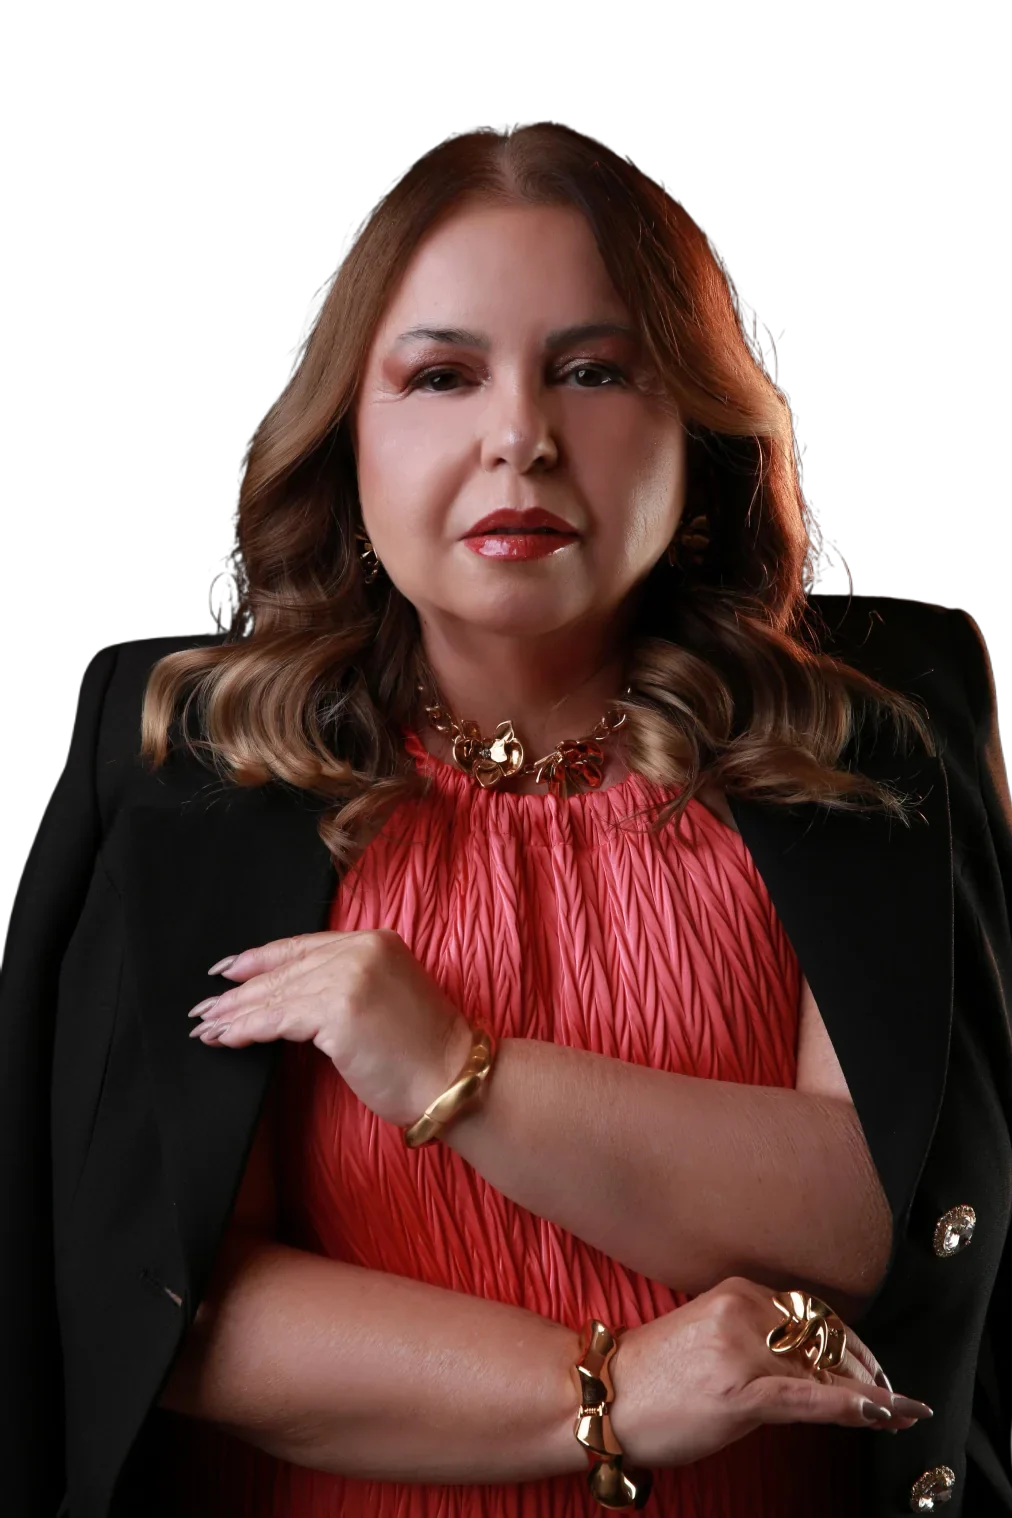
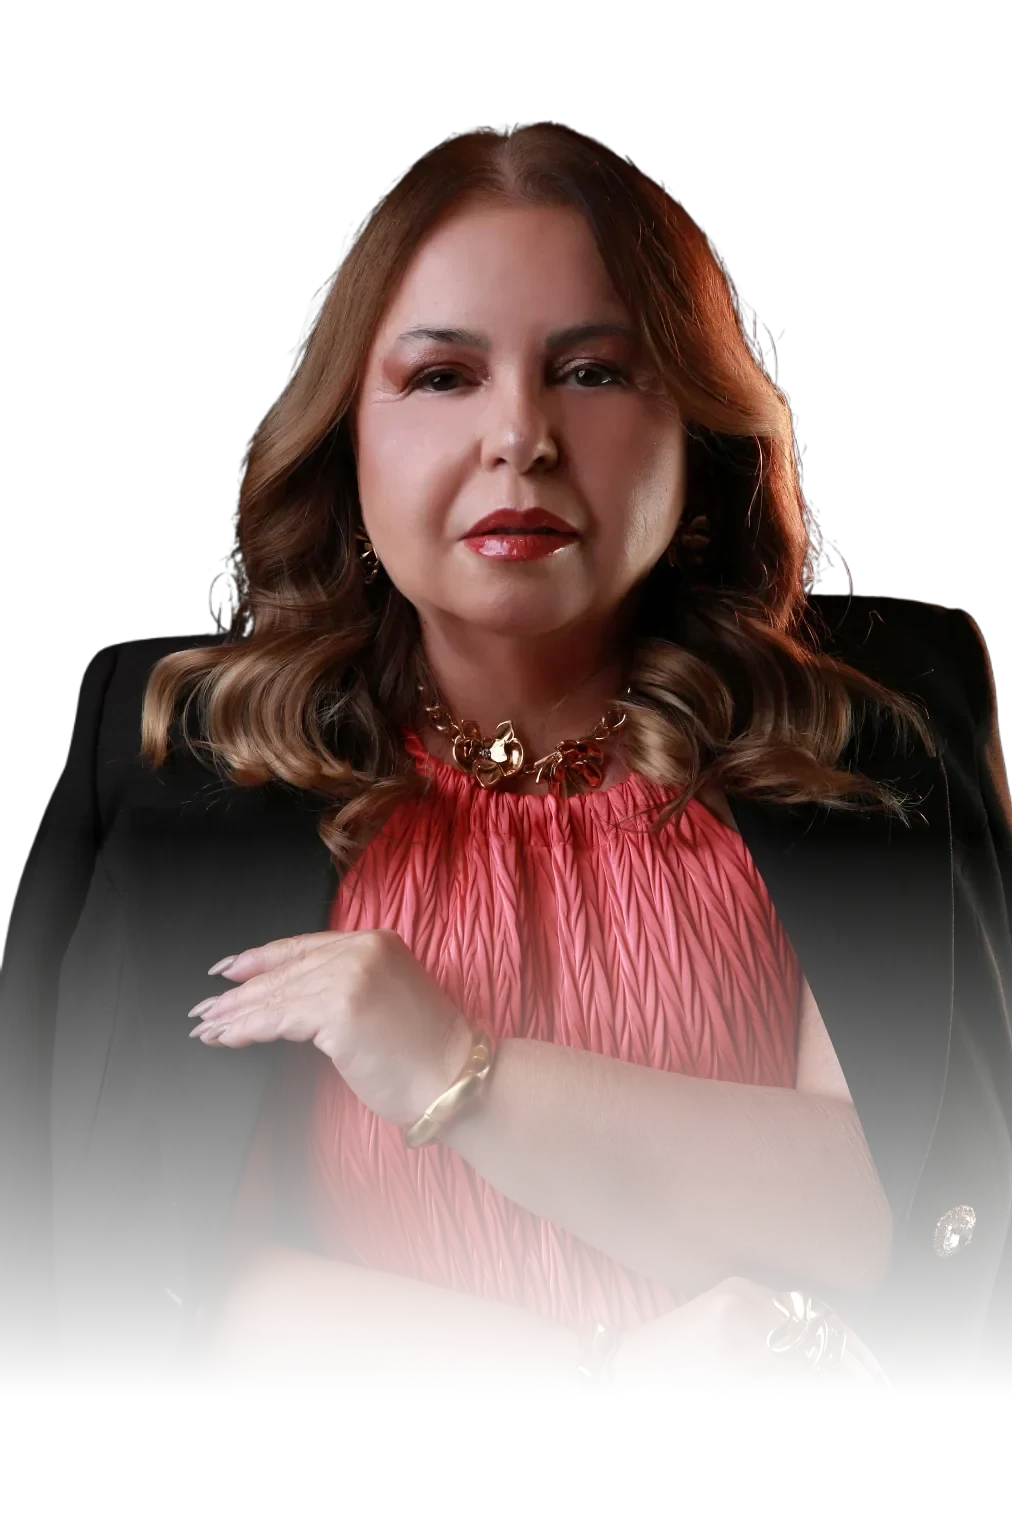
fix(photos): nitidez real no celular - sem filter/mask no img, alfa da base assado no arquivo
Em celulares retina o navegador rasteriza um <img> com filter/mask-image numa
camada em 1x e depois amplia pelo devicePixelRatio, o que deixava a foto
embaçada só no aparelho (no desktop aparecia nítida).

- about.css/faq.css: remove filter e mask-image dos <img>; a base esfumaçada
  agora vem assada no canal alfa dos recortes e a camada __blur vira só um véu
  leve (sem backdrop-filter)
- recortes: regenera derivados a partir da maior versão (Lanczos3 + leve
  nitidez) e remove o candidato 506w, macio demais para o tamanho exibido
- faq.html: sizes volta para a largura renderizada real (187px/254px) para o
  aparelho escolher o candidato nítido; decoding async

diff --git a/src/app/components/about/about.css b/src/app/components/about/about.css
@@ -41,13 +41,12 @@
 }
 
 .about-photo__img {
-  /* A silhueta já vem com borda macia no arquivo; aqui só esfumacamos a base.
-     drop-shadow segue o contorno macio e dá o relevo da figura sobre o card.
-     object-position right bottom alinha a borda direita da foto com a borda do card. */
-  filter: blur(0.3px) drop-shadow(0 22px 26px rgb(8 6 3 / 0.5));
+  /* Nada de `filter`/`mask-image` no <img>: em celulares retina o navegador
+     rasteriza um <img> filtrado/mascarado numa camada em 1x e depois amplia
+     pelo devicePixelRatio, e a foto fica embaçada só no aparelho (no desktop
+     aparece nítida). A base esfumaçada já vem assada no alfa do próprio arquivo.
+     object-position right bottom alinha a borda direita da foto com a do card. */
   object-position: right bottom;
-  -webkit-mask-image: linear-gradient(to bottom, #000 0%, #000 55%, transparent 92%);
-  mask-image: linear-gradient(to bottom, #000 0%, #000 55%, transparent 92%);
 }
 
 /* Vinheta lateral: afoga suavemente as laterais (onde o recorte é "seco") no fundo */
@@ -61,32 +60,20 @@
 .about-photo__blur {
   position: absolute;
   inset: auto 0 0 0;
-  height: 45%;
-  background: linear-gradient(to bottom, rgb(35 28 20 / 0) 0%, var(--color-dark-warm) 85%);
-  -webkit-backdrop-filter: blur(6px);
-  backdrop-filter: blur(6px);
-  -webkit-mask-image: linear-gradient(to bottom, transparent 0%, #000 60%);
-  mask-image: linear-gradient(to bottom, transparent 0%, #000 60%);
+  height: 32%;
+  /* Véu leve da cor da seção sobre a base (sem backdrop-filter e sem mask): só
+     ajuda a fundir o fim do card no fundo. A foto, que já tem o alfa assado,
+     aparece nítida em telas retina. */
+  background: linear-gradient(to bottom, rgb(35 28 20 / 0) 0%, rgb(35 28 20 / 0.9) 100%);
   pointer-events: none;
 }
 
-/* Mobile: a foto é mais baixa, então o desfoque da base tomava a figura por
-   inteiro e a sombra externa do card virava um borrão embaixo. Aqui o desfoque
-   encolhe pra perto da base e o card perde a sombra externa. */
+/* Mobile: a foto é mais baixa, então a sombra externa do card virava um borrão
+   embaixo. Aqui o card perde a sombra externa. */
 @media (max-width: 767px) {
-  .about-photo__blur {
-    height: 28%;
-    -webkit-backdrop-filter: blur(3px);
-    backdrop-filter: blur(3px);
-  }
-
   .about-photo__card {
     box-shadow:
       inset 0 1px 0 rgb(255 235 190 / 0.12),
       inset 0 -1px 0 rgb(0 0 0 / 0.45);
-  }
-
-  .about-photo__img {
-    filter: blur(0.3px) drop-shadow(0 10px 14px rgb(8 6 3 / 0.4));
   }
 }

diff --git a/src/app/components/faq/faq.css b/src/app/components/faq/faq.css
@@ -34,11 +34,10 @@
 }
 
 .faq-photo__img {
-  /* A silhueta já vem com borda macia no arquivo; aqui só esfumacamos a base.
-     drop-shadow segue o contorno macio e dá o relevo da figura sobre o card. */
-  filter: blur(0.3px) drop-shadow(0 18px 22px rgb(8 6 3 / 0.5));
-  -webkit-mask-image: linear-gradient(to bottom, #000 0%, #000 55%, transparent 92%);
-  mask-image: linear-gradient(to bottom, #000 0%, #000 55%, transparent 92%);
+  /* Nada de `filter`/`mask-image` no <img>: em celulares retina o navegador
+     rasteriza um <img> filtrado/mascarado numa camada em 1x e depois amplia
+     pelo devicePixelRatio — a foto fica embaçada só no aparelho. A base
+     esfumaçada já vem assada no alfa do próprio arquivo. */
 }
 
 /* Vinheta lateral: afoga suavemente as laterais (onde o recorte é "seco") no fundo */
@@ -52,32 +51,20 @@
 .faq-photo__blur {
   position: absolute;
   inset: auto 0 0 0;
-  height: 45%;
-  background: linear-gradient(to bottom, rgb(35 28 20 / 0) 0%, var(--color-dark-warm) 85%);
-  -webkit-backdrop-filter: blur(6px);
-  backdrop-filter: blur(6px);
-  -webkit-mask-image: linear-gradient(to bottom, transparent 0%, #000 60%);
-  mask-image: linear-gradient(to bottom, transparent 0%, #000 60%);
+  height: 32%;
+  /* Véu leve da cor da seção sobre a base (sem backdrop-filter e sem mask): só
+     ajuda a fundir o fim do card no fundo. A foto, que já tem o alfa assado,
+     aparece nítida em telas retina. */
+  background: linear-gradient(to bottom, rgb(35 28 20 / 0) 0%, rgb(35 28 20 / 0.9) 100%);
   pointer-events: none;
 }
 
-/* Mobile: mesma correção do "Sobre" — desfoque menor pra não cobrir a figura e
-   card sem sombra externa. */
+/* Mobile: mesma correção do "Sobre" — card sem sombra externa. */
 @media (max-width: 767px) {
-  .faq-photo__blur {
-    height: 28%;
-    -webkit-backdrop-filter: blur(3px);
-    backdrop-filter: blur(3px);
-  }
-
   .faq-photo__card {
     box-shadow:
       inset 0 1px 0 rgb(255 235 190 / 0.12),
       inset 0 -1px 0 rgb(0 0 0 / 0.45);
-  }
-
-  .faq-photo__img {
-    filter: blur(0.3px) drop-shadow(0 10px 14px rgb(8 6 3 / 0.4));
   }
 }
 

diff --git a/src/app/components/faq/faq.html b/src/app/components/faq/faq.html
@@ -6,13 +6,13 @@
       <div aria-hidden="true" class="faq-photo__card"></div>
       <img
         src="photos/photo3_withoutBG_hi.webp"
-        srcset="photos/photo3_withoutBG_506w.webp 506w, photos/photo3_withoutBG_506w.webp 506w, photos/photo3_withoutBG.webp 675w, photos/photo3_withoutBG_hi.webp 1012w"
-        sizes="(min-width: 768px) 254px, calc(50vw - 2rem)"
+        srcset="photos/photo3_withoutBG.webp 675w, photos/photo3_withoutBG_hi.webp 1012w"
+        sizes="(min-width: 768px) 254px, 187px"
         alt="Dra. Anne Valéria, médica pneumologista"
         width="1012"
         height="1518"
         loading="lazy"
-        decoding="sync"
+        decoding="async"
         class="faq-photo__img absolute inset-0 w-full h-full object-contain object-bottom"
       />
       <div aria-hidden="true" class="faq-photo__vignette"></div>

diff --git a/src/app/components/about/about.html b/src/app/components/about/about.html
@@ -13,7 +13,7 @@
           alt="Dra. Anne Valéria — retrato informal"
           class="about-photo__img absolute inset-0 w-full h-full object-contain"
           loading="lazy"
-          decoding="auto"
+          decoding="async"
         />
         <div aria-hidden="true" class="about-photo__vignette"></div>
       </div>
